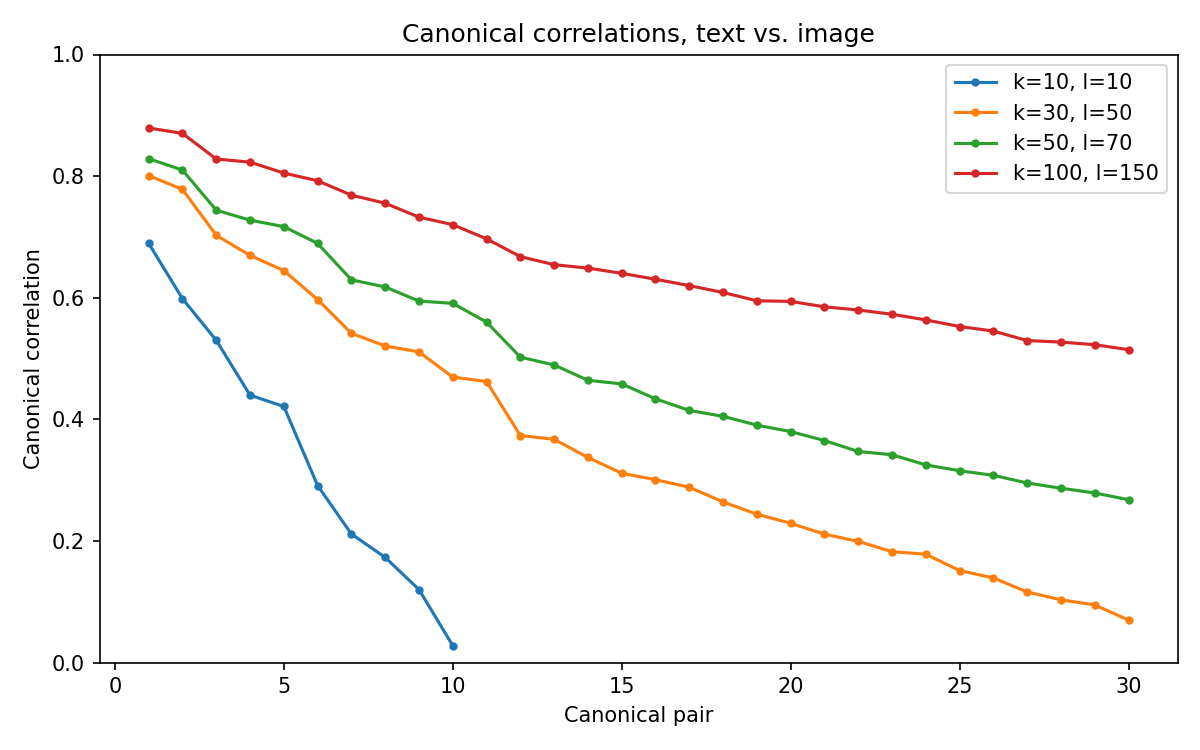
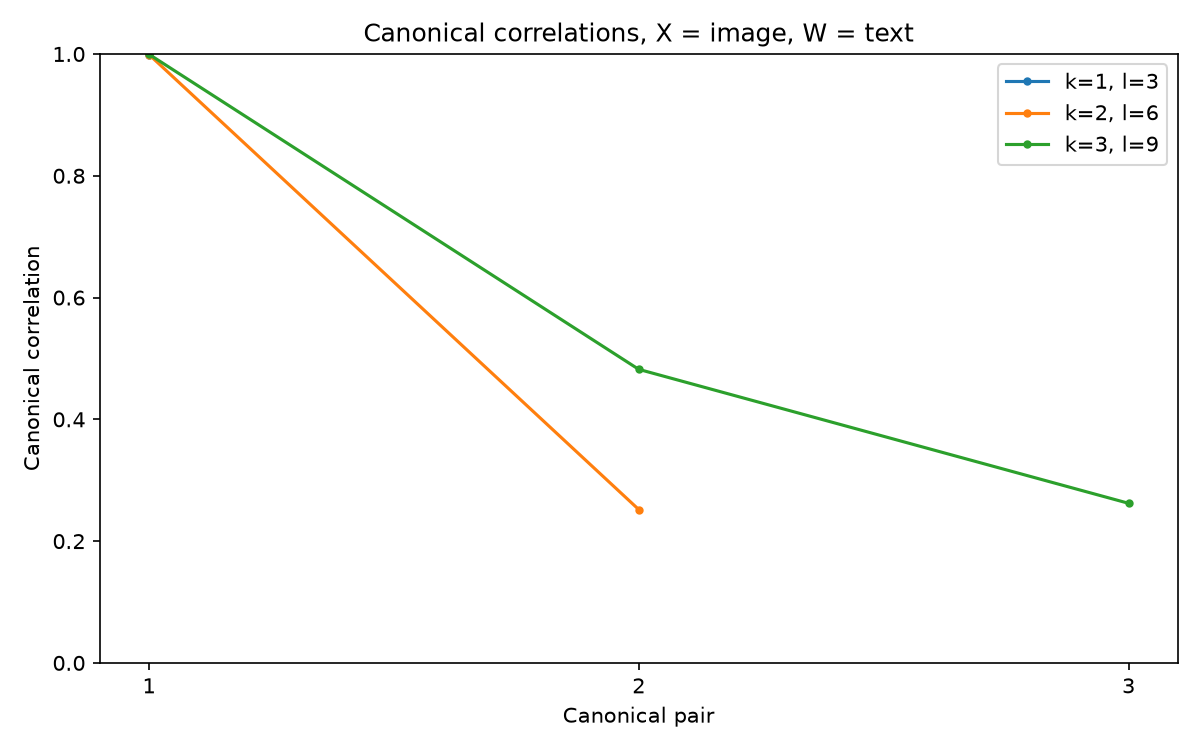
CCA at small ranks with X/W and centering toggles
KL_CHOICES = (1,3), (2,6), (3,9); X_BLOCK picks which block is X;
CENTER toggle, currently off (raw embeddings).

diff --git a/code/cca_analysis.py b/code/cca_analysis.py
@@ -35,12 +35,25 @@ Z_X = text.select(cs.starts_with("text_")).to_numpy()[first]     # 1540 x 768
 
 #----- CCA
 
-# (k, l) = number of components kept for text / image, chosen from the scree plots
-KL_CHOICES = [(10, 10), (30, 50), (50, 70), (100, 150)]
-N_PAIRS = 30
+# k = rank kept for X, l = rank kept for W
+KL_CHOICES = [(1, 3), (2, 6), (3, 9)]
+# all combinations instead:
+# KL_CHOICES = [(k, l) for k in [1, 2, 3] for l in [3, 4, 5, 6]]
+N_PAIRS = 3
 
-U, S, Vt = np.linalg.svd(Z_X - Z_X.mean(axis=0), full_matrices=False)
-U_t, S_t, Vt_t = np.linalg.svd(Z_W - Z_W.mean(axis=0), full_matrices=False)
+# "text": X = text, W = image.  "image": X = image, W = text.
+X_BLOCK = "image"
+if X_BLOCK == "image":
+    Z_X, Z_W = Z_W, Z_X
+
+# subtract column means before the SVD
+CENTER = False
+if CENTER:
+    Z_X = Z_X - Z_X.mean(axis=0)
+    Z_W = Z_W - Z_W.mean(axis=0)
+
+U, S, Vt = np.linalg.svd(Z_X, full_matrices=False)
+U_t, S_t, Vt_t = np.linalg.svd(Z_W, full_matrices=False)
 
 rows = {}
 for k, l in KL_CHOICES:
@@ -65,7 +78,8 @@ for k, l in KL_CHOICES:
     plt.plot(canonical_corrs["pair"], canonical_corrs[f"k{k}_l{l}"], marker="o", markersize=3, label=f"k={k}, l={l}")
 plt.xlabel("Canonical pair")
 plt.ylabel("Canonical correlation")
-plt.title("Canonical correlations, text vs. image")
+plt.title(f"Canonical correlations, X = {X_BLOCK}, W = {'image' if X_BLOCK == 'text' else 'text'}")
+plt.xticks(canonical_corrs["pair"])
 plt.ylim(0, 1)
 plt.legend()
 plt.tight_layout()
